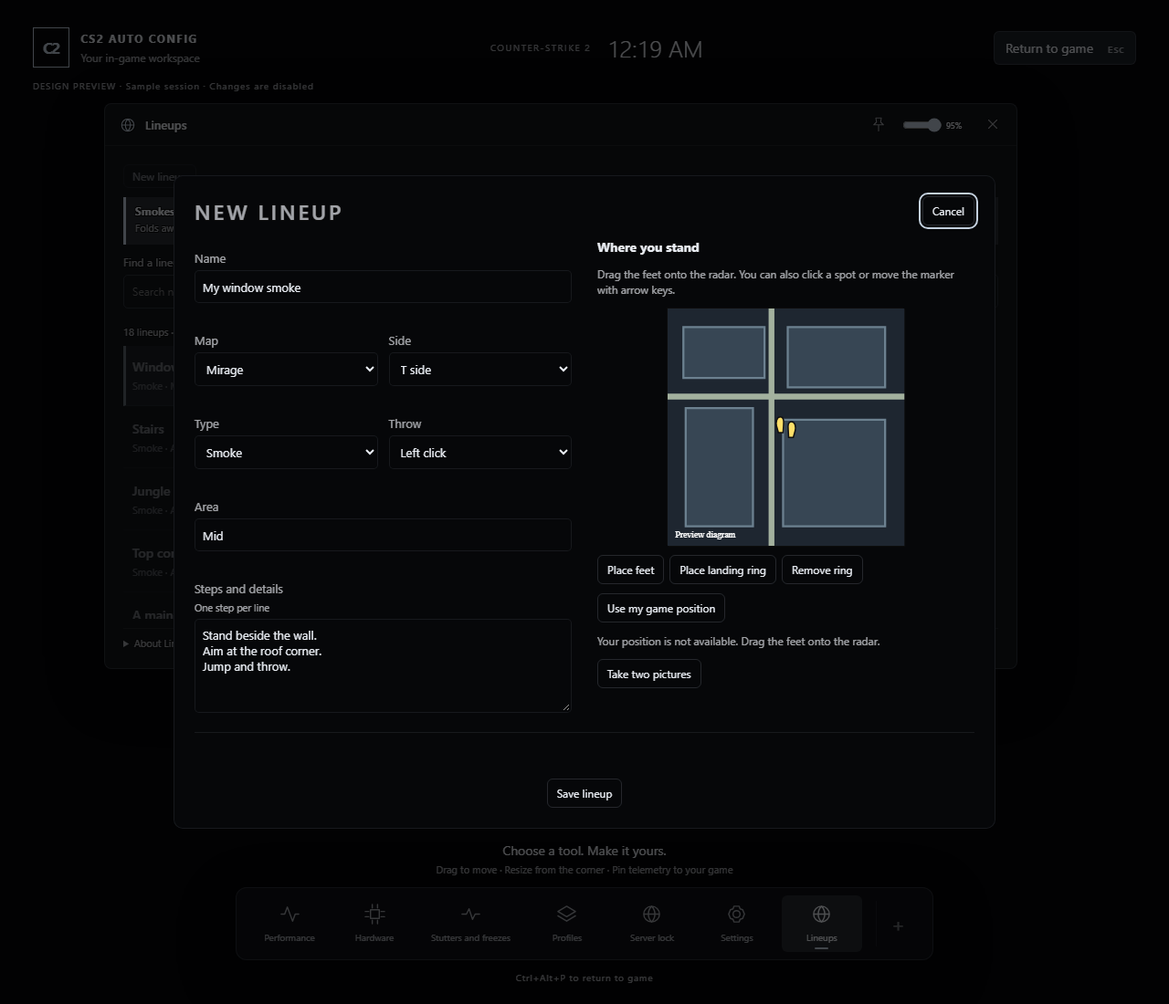
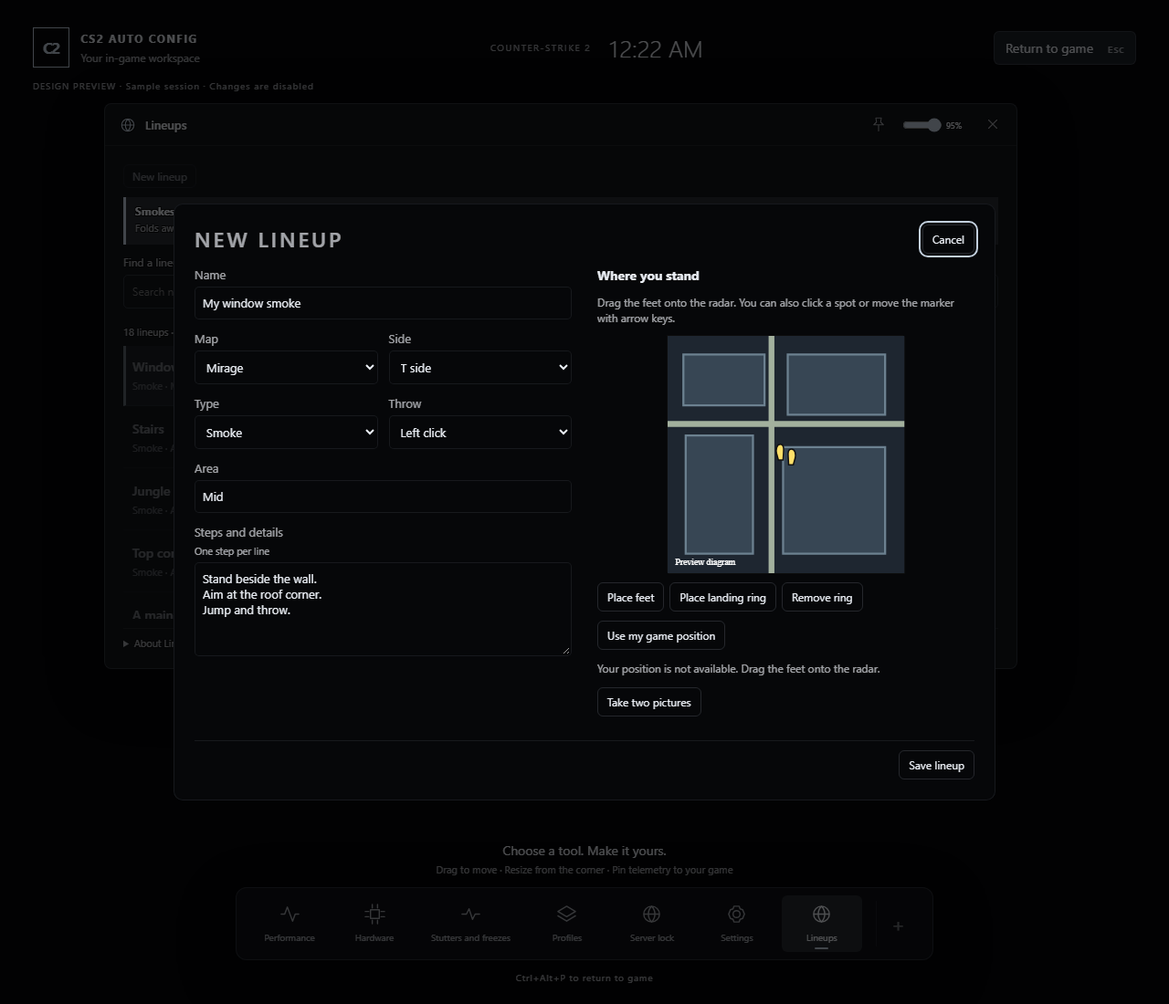
Lineups: separate Lineup picture key setting (picture taking not built yet)
HUD-hiding commands need cheats, so own-lineup pictures would need offline
practice. Capture, crop and retake are not implemented. Built by Codex.

diff --git a/cs2cfg/web/assets/overlay/tools/lineups.js b/cs2cfg/web/assets/overlay/tools/lineups.js
@@ -13,6 +13,7 @@
   let box='0 0 1024 1024';
   if(rows.length===1){const [x,y]=p(rows[0].stand),[u,v]=p(rows[0].land||rows[0].stand),size=Math.min(1024,Math.max(240,Math.abs(u-x)+120,Math.abs(v-y)+210));box=[Math.max(0,Math.min(1024-size,(x+u-size)/2)),Math.max(0,Math.min(1024-size,(y+v-size)/2-40)),size,size].join(' ');}
   return '<svg class="lineup-radar" viewBox="'+box+'" role="img" aria-label="Stand points and landing areas"><image width="1024" height="1024" href="'+e(art.image)+'"/>'+rows.map((r,i)=>{
+   if(!r.land){const [x,y]=p(r.stand);return '<g><title>'+e(r.name)+'</title><circle cx="'+x+'" cy="'+y+'" r="10" fill="white" stroke="#111" stroke-width="4"/></g>';}
    const [x,y]=p(r.stand),[u,v]=p(r.land||r.stand),c={smoke:'#dce1eb',fire:'#ff873e',flash:'#ffffff',grenade:'#ff5252'}[r.type];
    return '<g><title>'+e(r.name)+'</title><path d="M'+x+' '+y+' Q'+((x+u)/2)+' '+(Math.min(y,v)-90)+' '+u+' '+v+'" fill="none" stroke="'+c+'" stroke-width="5" stroke-dasharray="12 10"/><circle cx="'+x+'" cy="'+y+'" r="10" fill="white" stroke="#111" stroke-width="4"/><circle cx="'+u+'" cy="'+v+'" r="30" fill="'+c+'" fill-opacity=".4" stroke="'+c+'" stroke-width="5"/><text x="'+u+'" y="'+(v+9)+'" text-anchor="middle" fill="white" stroke="#111" stroke-width="3" paint-order="stroke" font-size="28">'+(i+1)+'</text></g>';
   }).join('')+'</svg><p>White point: where to stand · Dashed line: throw direction · Ring: landing area</p>';
@@ -20,6 +21,7 @@
  window.lineupsUI={search,radar};
  window.overlayRenderers.lineups=(root,d,call)=>{
   root.lineupLatest=d;
+  root.updateLineupPosition?.();
   const updateRound=()=>{
    const status=root.querySelector('.lineup-picture-status');if(status)status.textContent=d.picture_status||'';
    const stop=root.querySelector('[data-stop-pictures]');if(stop)stop.hidden=!d.picture_active;
@@ -84,7 +86,7 @@
   const edit=!!row, state=root.lineupsState;
   let d=initial, key=row?state.map:(initial.position?.map||initial.round?.map||state.map);
   if(!(initial.maps||[]).some(m=>m.id===key))key=state.map;
-  let stand=row?.stand||null,land=row?.land||null,aim=row?.aim||null,placing='stand';
+  let stand=row?.stand||null,land=row?.land||null,aim=row?.aim||null,placing='stand',placedByUser=!!row;
   const dialog=document.createElement('dialog');dialog.className='lineup-editor';
   const select=(name,label,values,value)=>'<label>'+label+'<select name="'+name+'">'+values.map(([v,t])=>'<option value="'+e(v)+'" '+(v===value?'selected':'')+'>'+e(t)+'</option>').join('')+'</select></label>';
   dialog.innerHTML='<form><header><h3>'+(edit?'Edit lineup':'New lineup')+'</h3><button type="button" data-cancel>Cancel</button></header><div class="lineup-editor-columns"><div class="lineup-editor-fields"><label>Name<input name="name" required maxlength="240" value="'+e(row?.name||'')+'" placeholder="My window smoke"></label><div class="lineup-field-pair">'+select('map','Map',(initial.maps||[]).map(m=>[m.id,m.name]),key)+select('side','Side',[['T','T side'],['CT','CT side']],row?.side||'T')+'</div><div class="lineup-field-pair">'+select('type','Type',[['smoke','Smoke'],['fire','Fire'],['flash','Flash'],['grenade','Grenade']],row?.type||'smoke')+select('throw','Throw',[['left click','Left click'],['right click','Right click'],['both','Both'],['jump throw','Jump throw'],['run throw','Run throw'],['walk throw','Walk throw']],row?.throw||'left click')+'</div><label>Area<input name="area" required maxlength="240" value="'+e(row?.area||'')+'" placeholder="A site"></label><label>Steps and details <small>One step per line</small><textarea name="steps" required rows="5">'+e((row?.steps||[]).join('\n'))+'</textarea></label></div><div class="lineup-editor-places"><h4>Where you stand</h4><p>Drag the feet onto the radar. You can also click a spot or move the marker with arrow keys.</p><div data-edit-radar></div><div class="lineup-marker-tools"><button type="button" data-stand>Place feet</button><button type="button" data-land>Place landing ring</button><button type="button" data-clear-land>Remove ring</button></div><button type="button" data-position>Use my game position</button><p data-position-note role="status"></p><button type="button" data-create>Take two pictures</button><p data-create-note role="status"></p></div></div><footer><p data-error role="status"></p><button type="submit">Save lineup</button></footer></form>';
@@ -100,14 +102,15 @@
    const marker=(point,kind)=>{const p=pixel(point);return p?'<g tabindex="0" role="slider" aria-label="'+(kind==='stand'?'Feet':'Landing ring')+'; use arrow keys to move" data-marker="'+kind+'" transform="translate('+p.join(' ')+')" style="color:'+(kind==='stand'?'#ffdf69':'#97d8ff')+'">'+(kind==='stand'?feet:'<circle r="30" fill="none" stroke="currentColor" stroke-width="8"/>')+'</g>':'';};
    slot.innerHTML='<svg viewBox="0 0 '+o.width+' '+o.height+'" class="lineup-placement" aria-label="Place your lineup markers">'+(d.art?'<image width="'+o.width+'" height="'+o.height+'" href="'+e(d.art.image)+'"/>':'<rect width="100%" height="100%" fill="#26343e"/><path d="M0 512H1024M512 0V1024" stroke="#84919a" stroke-width="2"/><text x="30" y="70" fill="white" font-size="32">Radar picture unavailable</text>')+marker(stand,'stand')+marker(land,'land')+'</svg>';
    const svg=slot.querySelector('svg');
-   const move=event=>{const p=svg.createSVGPoint();p.x=event.clientX;p.y=event.clientY;const q=p.matrixTransform(svg.getScreenCTM().inverse());const point={radar_x:Math.max(0,Math.min(o.width,q.x)),radar_y:Math.max(0,Math.min(o.height,q.y))};if(placing==='stand'){stand=point;aim=null;}else land=point;const g=svg.querySelector('[data-marker="'+placing+'"]');if(g)g.setAttribute('transform','translate('+point.radar_x+' '+point.radar_y+')');};
+   const move=event=>{const p=svg.createSVGPoint();p.x=event.clientX;p.y=event.clientY;const q=p.matrixTransform(svg.getScreenCTM().inverse());const point={radar_x:Math.max(0,Math.min(o.width,q.x)),radar_y:Math.max(0,Math.min(o.height,q.y))};if(placing==='stand'){stand=point;aim=null;placedByUser=true;}else land=point;const g=svg.querySelector('[data-marker="'+placing+'"]');if(g)g.setAttribute('transform','translate('+point.radar_x+' '+point.radar_y+')');};
    svg.onpointerdown=event=>{event.preventDefault();placing=event.target.closest('[data-marker]')?.dataset.marker||placing;if(placing==='land'&&!land){land={radar_x:0,radar_y:0};paint();slot.querySelector('svg').dispatchEvent(new PointerEvent('pointerdown',{clientX:event.clientX,clientY:event.clientY,pointerId:event.pointerId,bubbles:true}));return;}svg.setPointerCapture(event.pointerId);move(event);};
    svg.onpointermove=event=>{if(svg.hasPointerCapture(event.pointerId))move(event);};
    svg.onpointerup=event=>{if(svg.hasPointerCapture(event.pointerId))svg.releasePointerCapture(event.pointerId);};
-   for(const g of svg.querySelectorAll('[data-marker]'))g.onkeydown=event=>{const delta={ArrowLeft:[-4,0],ArrowRight:[4,0],ArrowUp:[0,-4],ArrowDown:[0,4]}[event.key];if(!delta)return;event.preventDefault();placing=g.dataset.marker;const p=pixel(placing==='stand'?stand:land);const next={radar_x:Math.max(0,Math.min(o.width,p[0]+delta[0])),radar_y:Math.max(0,Math.min(o.height,p[1]+delta[1]))};if(placing==='stand'){stand=next;aim=null;}else land=next;g.setAttribute('transform','translate('+next.radar_x+' '+next.radar_y+')');};
+   for(const g of svg.querySelectorAll('[data-marker]'))g.onkeydown=event=>{const delta={ArrowLeft:[-4,0],ArrowRight:[4,0],ArrowUp:[0,-4],ArrowDown:[0,4]}[event.key];if(!delta)return;event.preventDefault();placing=g.dataset.marker;const p=pixel(placing==='stand'?stand:land);const next={radar_x:Math.max(0,Math.min(o.width,p[0]+delta[0])),radar_y:Math.max(0,Math.min(o.height,p[1]+delta[1]))};if(placing==='stand'){stand=next;aim=null;placedByUser=true;}else land=next;g.setAttribute('transform','translate('+next.radar_x+' '+next.radar_y+')');};
   }
-  function position(){const pos=(root.lineupLatest||d).position;if(pos?.map===key){stand=pos.stand;aim=pos.aim;dialog.querySelector('[data-position-note]').textContent='Your game position and aim were placed.';paint();}else dialog.querySelector('[data-position-note]').textContent='Your position is not available. Drag the feet onto the radar.';}
-  const close=async()=>{dialog.close();dialog.remove();await call('editing',{active:false,map:state.map});};
+  function position(){const pos=(root.lineupLatest||d).position;if(pos?.map===key){stand=pos.stand;aim=pos.aim;placedByUser=true;dialog.querySelector('[data-position-note]').textContent='Your game position and aim were placed.';paint();}else dialog.querySelector('[data-position-note]').textContent='Your position is not available. Drag the feet onto the radar.';}
+  root.updateLineupPosition=()=>{if(!placedByUser)position();};
+  const close=async()=>{delete root.updateLineupPosition;dialog.close();dialog.remove();await call('editing',{active:false,map:state.map});};
   dialog.querySelector('[data-cancel]').onclick=close;dialog.oncancel=event=>{event.preventDefault();close();};
   dialog.querySelector('[data-stand]').onclick=()=>{placing='stand';};
   dialog.querySelector('[data-land]').onclick=()=>{placing='land';if(!land&&overview()){land={radar_x:overview().width*.6,radar_y:overview().height*.4};paint();}};
@@ -115,7 +118,7 @@
   dialog.querySelector('[data-position]').onclick=position;
   dialog.querySelector('[data-create]').onclick=async()=>{const result=await call('creating',{map:key});dialog.querySelector('[data-create-note]').textContent=result.text;};
   field('map').disabled=edit;
-  field('map').onchange=async()=>{key=field('map').value;stand=land=aim=null;d=await call('data',{map:key});paint();position();};
+  field('map').onchange=async()=>{key=field('map').value;stand=land=aim=null;placedByUser=false;d=await call('data',{map:key});paint();position();};
   form.onsubmit=async event=>{event.preventDefault();if(!stand||!overview()){dialog.querySelector('[data-error]').textContent='Choose a map and place your feet first.';return;}
    const values=Object.fromEntries(new FormData(form));const saved={id:row?.id,name:values.name.trim(),side:values.side,type:values.type,throw:values.throw,area:values.area.trim(),steps:values.steps.split('\n').map(s=>s.trim()).filter(Boolean),stand,land,aim};
    const result=await call('change',{action:'save',map:key,row:saved,overview:overview()});

diff --git a/cs2cfg/web/index.html b/cs2cfg/web/index.html
@@ -9501,7 +9501,8 @@ function renderOverlay(d) {
       toggle('overlay_always_visible', 'Always visible', 'Override Auto hide while CS2 is focused.') +
       '<p class="sub2">Auto hide waits for game state if it is missing or out of date. Always visible still requires Fullscreen Windowed.</p>') +
     card('Lineups', '<p class="sub2">Make pictures in offline Mirage practice. Close CS2 first. Keep the game visible and press the chosen key once for each picture.</p>' +
-      '<label>Picture key <select id="lineups-picture-key">' + ['F6','F7','F8','F9','F10','F11'].map(k => '<option' + (k === 'F8' ? ' selected' : '') + '>' + k + '</option>').join('') + '</select></label><button class="btn" id="lineups-pictures">Make lineup pictures</button>' +
+      '<label>Picture key <select id="lineups-picture-key">' + ['F6','F7','F8','F9','F10','F11'].map(k => '<option' + (k === (s.overlay_lineups_picture_key || 'F8') ? ' selected' : '') + '>' + k + '</option>').join('') + '</select></label><button class="btn" id="lineups-pictures">Make lineup pictures</button>' +
+      '<label>Lineup picture key <select id="lineups-create-key">' + ['F6','F7','F8','F9','F10','F11'].map(k => '<option' + (k === (s.overlay_lineups_create_key || 'F9') ? ' selected' : '') + '>' + k + '</option>').join('') + '</select></label><p class="sub2">Use different keys for pictures and overlay shortcuts. Automatic pictures for your own lineups are unavailable; save radar markers instead. Hiding the game display and weapon requires offline practice.</p>' +
       '<div class="actions"><span id="lineups-picture-status" role="status">' + esc(d.picture_status || '') + '</span><button class="btn" id="lineups-pictures-stop"' + (d.picture_active ? '' : ' hidden') + '>Stop pictures</button></div>') +
     card('Frame stats',
       '<p class="sub2">' + (live ? (d.frame_capture_ready ? 'Frame capture ready.' : 'Resource stats available; frame capture needs setup.') :
@@ -9537,6 +9538,8 @@ document.addEventListener("click", async e => {
         overlay_corner: $("overlay-corner").value,
         overlay_hotkey: $("overlay-hotkey").value.trim(),
         overlay_panel_hotkey: $("overlay-panel-hotkey").value.trim(),
+        overlay_lineups_picture_key: $("lineups-picture-key").value,
+        overlay_lineups_create_key: $("lineups-create-key").value,
         overlay_fields: [...document.querySelectorAll('[data-overlay-field]:checked')].map(x => x.dataset.overlayField),
       });
       renderOverlay(answer);

diff --git a/cs2cfg/web/assets/overlay/tools/lineups.css b/cs2cfg/web/assets/overlay/tools/lineups.css
@@ -32,3 +32,5 @@
 [data-tool="lineups"] .lineup-detail .lineup-radar{width:140px;height:140px}.lineup-detail ol{gap:8px!important}.lineup-own-toolbar{min-height:22px}
 .lineup-editor{width:min(900px,94vw);max-height:90vh;overflow:auto;color:var(--ink);background:var(--bg);border:1px solid var(--line-soft);border-radius:10px;padding:22px}.lineup-editor::backdrop{background:#000a}.lineup-editor header,.lineup-editor footer{display:flex;justify-content:space-between;align-items:center;gap:16px}.lineup-editor h3{margin:0 0 15px;font-size:23px}.lineup-editor-columns{display:grid;grid-template-columns:1fr 1fr;gap:28px}.lineup-editor-fields{display:grid;gap:12px}.lineup-editor label{display:grid;gap:5px;font-size:13px}.lineup-editor input,.lineup-editor select,.lineup-editor textarea{width:100%;box-sizing:border-box;background:var(--bg);color:var(--ink);border:1px solid var(--line-soft);border-radius:5px;padding:8px;font:inherit}.lineup-field-pair{display:grid;grid-template-columns:1fr 1fr;gap:12px}.lineup-editor p{font-size:12px;line-height:1.4;color:var(--muted)}.lineup-editor h4{margin:0}.lineup-placement{width:100%;max-height:260px;aspect-ratio:1;display:block;touch-action:none}.lineup-placement [data-marker]{cursor:grab;outline:none}.lineup-placement [data-marker]:focus{color:white!important}.lineup-marker-tools{display:flex;flex-wrap:wrap;gap:6px;margin:10px 0}.lineup-editor button{font-size:12px;padding:7px 10px}.lineup-editor footer{margin-top:14px;border-top:1px solid var(--line-soft);padding-top:10px}.lineup-editor [data-error]{color:var(--accent)}@media(max-width:650px){.lineup-editor-columns{grid-template-columns:1fr}}
 .lineup-editor header,.lineup-editor footer{position:static;inset:auto;width:auto;height:auto;min-height:0;transform:none;background:transparent;z-index:auto}.lineup-editor footer button{flex-shrink:0}.lineup-editor-fields{align-content:start}.lineup-editor input,.lineup-editor select{min-height:36px}.lineup-editor header{padding:0;margin:0 0 14px}.lineup-editor header h3{margin:0}
+.lineup-editor label{margin:0}.lineup-editor footer{flex-direction:row;justify-content:space-between}.lineup-editor footer p{margin:0}
+.lineup-detail:has(.lineup-own-actions){min-height:0;overflow:auto}

diff --git a/tests/overlay_settings_harness.js b/tests/overlay_settings_harness.js
@@ -29,6 +29,9 @@ for (const title of ['Performance overlay', 'HUD', 'Panel', 'Behaviour', 'Frame 
   assert(output.includes(`<h2>${title}</h2>`));
 }
 assert(output.includes('Enable the overlay and start CS2'));
+assert(output.includes('Lineup picture key'));
+assert(output.includes('id="lineups-create-key"'));
+assert(output.includes('Automatic pictures for your own lineups are unavailable'));
 assert(!output.includes('286.4'));
 output = render('waiting');
 assert(output.includes('Start CS2, then refresh'));

diff --git a/cs2cfg/overlay/tools/lineups.py b/cs2cfg/overlay/tools/lineups.py
@@ -3,7 +3,7 @@ from .base import Tool
 
 
 def data(state, args=None):
-    from ...lineups import MAPS
+    from ...lineups import MAPS, load as seed_load
     from ...lineups.mine import combined as load
     from ...webui import _lineups_art
     args = args or {}
@@ -17,7 +17,9 @@ def data(state, args=None):
         from ...lineups.pictures import game_build, cached_pictures
         from ...paths import user_data_dir
         try:
-            images = cached_pictures(document, game_build(state.cs2_install), user_data_dir())
+            seed = seed_load(document['map'])
+            if seed:
+                images = cached_pictures(seed, game_build(state.cs2_install), user_data_dir())
         except (OSError, ValueError, KeyError):
             pass
     session = state.overlay.picture_session
@@ -27,6 +29,7 @@ def data(state, args=None):
             'picture_status': session.text if session else '',
             'picture_active': bool(session and session.active),
             'position': player_position(state),
+            'undo_available': bool(getattr(state.overlay, 'lineups_undo', None)),
             'notice': getattr(state.overlay, 'lineups_notice', '')}
 
 
@@ -46,7 +49,9 @@ def player_position(state):
             return None
         snapshot = game.state
         player = snapshot.get('player', {})
-        if (not snapshot.get('provider', {}).get('steamid')
+        if (snapshot.get('provider', {}).get('appid') != 730
+                or player.get('activity') != 'playing'
+                or not snapshot.get('provider', {}).get('steamid')
                 or player.get('steamid') != snapshot['provider']['steamid']):
             return None
         try:
@@ -72,6 +77,15 @@ def editing(state, args=None):
         state.overlay.lineups_editing = bool((args or {}).get('active'))
         state.overlay._configure_gsi(state.overlay._settings['overlay_enabled'])
     return data(state, args)
+
+
+def creating(state, args=None):
+    # No verified key/HUD acknowledgement is available through our GSI path.
+    # Do not create binds, launch a game or capture on an unrelated heartbeat.
+    return {'available': False, 'active': False,
+            'text': 'Automatic pictures are unavailable: this app cannot verify when '
+                    'the picture key has hidden the display. Save your lineup with radar '
+                    'markers for now. Clean pictures would require offline practice.'}
 
 
 def change(state, args=None):
@@ -101,5 +115,5 @@ def change(state, args=None):
 
 
 TOOL = Tool('lineups', 'Lineups', 'globe', data, refresh_hz=1,
-            actions={'stop_pictures': stop_pictures, 'change': change, 'editing': editing},
+            actions={'stop_pictures': stop_pictures, 'change': change, 'editing': editing, 'creating': creating},
             default_size=(1000, 620), pinnable=True)

diff --git a/tests/test_lineups_creating.py b/tests/test_lineups_creating.py
@@ -1,0 +1,38 @@
+"""Personal-picture fallback: no unsupported capture or game config writes."""
+import unittest
+from types import SimpleNamespace
+from unittest.mock import Mock, patch
+from cs2cfg.overlay.settings import read
+from cs2cfg.overlay.tools.lineups import creating
+
+
+class CreatingFallback(unittest.TestCase):
+    def test_keys_default_to_separate_keys_and_reject_collisions(self):
+        settings = read({}, strict=True)
+        self.assertEqual(settings['overlay_lineups_picture_key'], 'F8')
+        self.assertEqual(settings['overlay_lineups_create_key'], 'F9')
+        for changes in ({'overlay_lineups_create_key': 'F8'},
+                        {'overlay_lineups_picture_key': 'F9'},
+                        {'overlay_panel_hotkey': 'Ctrl+Alt+F9'},
+                        {'overlay_hotkey': 'Ctrl+F8'},
+                        {'overlay_lineups_create_key': 'F9;quit'}):
+            with self.subTest(changes=changes), self.assertRaises(ValueError):
+                read(changes, strict=True)
+        settings = read({'overlay_lineups_create_key': 'F8'})
+        self.assertNotEqual(settings['overlay_lineups_picture_key'], settings['overlay_lineups_create_key'])
+        settings = read({'overlay_lineups_create_key': 'F10'}, strict=True)
+        self.assertEqual(settings['overlay_lineups_create_key'], 'F10')
+
+    def test_picture_request_never_captures_on_unverified_game_state(self):
+        frame = (2, 2, bytes([10, 20, 30, 255]) * 4)
+        capture = Mock(return_value=frame)
+        for event in ({}, {'map': {'name': 'de_mirage', 'mode': 'casual'}},
+                      {'hud_hidden': True, 'picture_key': 'F9'}):
+            with self.subTest(event=event), patch('cs2cfg.lineups.window_capture.capture_cs2', capture), patch('cs2cfg.launcher.launch_via_steam') as launch, patch('pathlib.Path.write_text') as write:
+                answer = creating(SimpleNamespace(game=event), {'map': 'mirage'})
+                self.assertFalse(answer['available'])
+                self.assertFalse(answer['active'])
+                self.assertIn('radar', answer['text'])
+                capture.assert_not_called()
+                launch.assert_not_called()
+                write.assert_not_called()

diff --git a/cs2cfg/overlay/settings.py b/cs2cfg/overlay/settings.py
@@ -12,6 +12,8 @@ DEFAULTS = {
     "overlay_tools": [key for key in IDS if key != 'lineups'],
     "overlay_enabled": False,
     "overlay_lineups_round_start": True,
+    "overlay_lineups_picture_key": "F8",
+    "overlay_lineups_create_key": "F9",
     "overlay_hide_in_rounds": False,
     "overlay_always_visible": False,
     "overlay_hide_from_capture": True,
@@ -61,6 +63,8 @@ def read(ui: dict | None = None, *, strict: bool = False) -> dict:
                      and len(set(value)) == len(value) and "settings" in value)
             if valid:
                 value = list(value)
+        elif key in ('overlay_lineups_picture_key', 'overlay_lineups_create_key'):
+            valid = isinstance(value, str) and value in tuple('F'+str(n) for n in range(6, 12))
         elif isinstance(DEFAULTS[key], bool):
             valid = isinstance(value, bool)
         elif key == "overlay_corner":
@@ -78,9 +82,18 @@ def read(ui: dict | None = None, *, strict: bool = False) -> dict:
                 valid = False
         if not valid:
             if strict:
+                if key in ('overlay_lineups_picture_key', 'overlay_lineups_create_key'):
+                    raise ValueError('Choose a picture key from the list.')
                 raise ValueError(f"Invalid {key}.")
             continue
         out[key] = value
     if strict and hotkey(out["overlay_hotkey"]) == hotkey(out["overlay_panel_hotkey"]):
         raise ValueError("HUD and panel shortcuts must be different.")
+    reserved = {out[k].split('+')[-1].strip().upper() for k in ('overlay_hotkey', 'overlay_panel_hotkey')}
+    for name, preferred in (('overlay_lineups_picture_key', 'F8'), ('overlay_lineups_create_key', 'F9')):
+        if out[name] in reserved:
+            if strict:
+                raise ValueError('Picture keys and overlay shortcuts must use different keys.')
+            out[name] = next(k for k in (preferred, 'F6', 'F7', 'F8', 'F9', 'F10', 'F11') if k not in reserved)
+        reserved.add(out[name])
     return out

diff --git a/cs2cfg/lineups/radar.py b/cs2cfg/lineups/radar.py
@@ -205,6 +205,9 @@ def draw(art, rows):
              '<image width="1024" height="1024" href="'+html.escape(art['image'],quote=True)+'"/>']
     for i,row in enumerate(rows,1):
         x,y = pixel(row['stand'],art['overview'])
+        if row['land'] is None:
+            parts.append(f'<g><title>{html.escape(row["name"])}</title><circle cx="{x:.1f}" cy="{y:.1f}" r="10" fill="white" stroke="#14101c" stroke-width="4"/></g>')
+            continue
         u,v = pixel(row['land'] or row['stand'],art['overview'])
         color = {'smoke':'#dce1eb','fire':'#ff873e','flash':'#ffffff','grenade':'#ff5252'}[row['type']]
         parts.append(f'<g><title>{html.escape(row["name"])}</title><path d="M{x:.1f} {y:.1f} Q{(x+u)/2:.1f} {min(y,v)-90:.1f} {u:.1f} {v:.1f}" fill="none" stroke="{color}" stroke-width="5" stroke-dasharray="12 10"/><circle cx="{x:.1f}" cy="{y:.1f}" r="10" fill="white" stroke="#14101c" stroke-width="4"/><circle cx="{u:.1f}" cy="{v:.1f}" r="30" fill="{color}" fill-opacity=".35" stroke="{color}" stroke-width="5"/><text x="{u:.1f}" y="{v+9:.1f}" text-anchor="middle" font-family="Segoe UI" font-size="28" fill="white" stroke="#111" paint-order="stroke" stroke-width="3">{i}</text></g>')

diff --git a/cs2cfg/lineups/__init__.py b/cs2cfg/lineups/__init__.py
@@ -74,7 +74,8 @@ def validate(document):
                             or not 0 <= point['radar_y'] <= o['height']):
                         raise ValueError('Point outside overview')
                     continue
-            if not isinstance(point,dict) or not all(number(point.get(k)) for k in ('x', 'y', 'z')):
+            if (not isinstance(point,dict) or any(k in point for k in ('radar_x', 'radar_y'))
+                    or not all(number(point.get(k)) for k in ('x', 'y', 'z'))):
                 raise ValueError('Invalid point')
             x, y = pixel(point, o)
             if not 0 <= x <= o['width'] or not 0 <= y <= o['height']:
@@ -106,5 +107,5 @@ def search(rows, query='', side='', kind=''):
                 'nade': 'grenade', 'he': 'grenade', 'pop': 'flash'}
     words = [synonyms.get(w, w) for w in re.findall(r'\w+', query.casefold()) if w != 'site']
     return [r for r in rows if (not side or r['side'] in (side, 'both'))
-            and (not kind or r['type'] == kind)
+            and (not kind or (r.get('mine') is True if kind == 'mine' else r['type'] == kind))
             and all(w in f"{r['name']} {r['area']} {r['type']}".casefold() for w in words)]

diff --git a/cs2cfg/webui.py b/cs2cfg/webui.py
@@ -5150,7 +5150,11 @@ def _lineups_pictures(state, body):
             install = state.cs2_install
             if not install:
                 return {'available': False, 'text': 'Install CS2 in Steam first.'}
-            key = body.get('key', 'F8')
+            key = body.get('key', settings.get('overlay_lineups_picture_key', 'F8'))
+            if (key == settings.get('overlay_lineups_create_key', 'F9')
+                    or key in {settings.get(k, '').split('+')[-1].strip().upper()
+                               for k in ('overlay_hotkey', 'overlay_panel_hotkey')}):
+                return {'available': False, 'text': 'Choose different picture keys and overlay shortcuts in Settings.'}
             paths = []
             from . import whoami
             steam_root = getattr(state, 'steam_root', None)

diff --git a/tests/test_lineups_editor.py b/tests/test_lineups_editor.py
@@ -10,9 +10,9 @@ from cs2cfg.overlay.tools.lineups import player_position, editing
 class Editor(unittest.TestCase):
     def state(self):
         game = AutoHide()
-        game.update({'provider': {'steamid': 'local'},
+        game.update({'provider': {'appid': 730, 'steamid': 'local'},
                      'map': {'name': 'de_mirage', 'phase': 'live'},
-                     'player': {'steamid': 'local', 'position': '10, 20, 30',
+                     'player': {'steamid': 'local', 'activity': 'playing', 'position': '10, 20, 30',
                                 'forward': '0, 1, 0'}})
         return SimpleNamespace(overlay=SimpleNamespace(_lock=threading.RLock(),
             _game_state=game, _settings={'overlay_enabled': True}, _configure_gsi=Mock()))

diff --git a/cs2cfg/overlay/service.py b/cs2cfg/overlay/service.py
@@ -143,6 +143,10 @@ class OverlayService:
 
     def configure(self, ui: dict) -> None:
         wanted = settings.read(ui, strict=True)
+        if (getattr(self, 'lineups_editing', False)
+                and (not wanted['overlay_enabled'] or 'lineups' not in wanted['overlay_tools'])):
+            self.lineups_editing = False
+            self._configure_gsi(wanted['overlay_enabled'])
         if (self.picture_session and self.picture_session.active
                 and (not wanted['overlay_enabled'] or 'lineups' not in wanted['overlay_tools'])):
             self.picture_session.abort()
